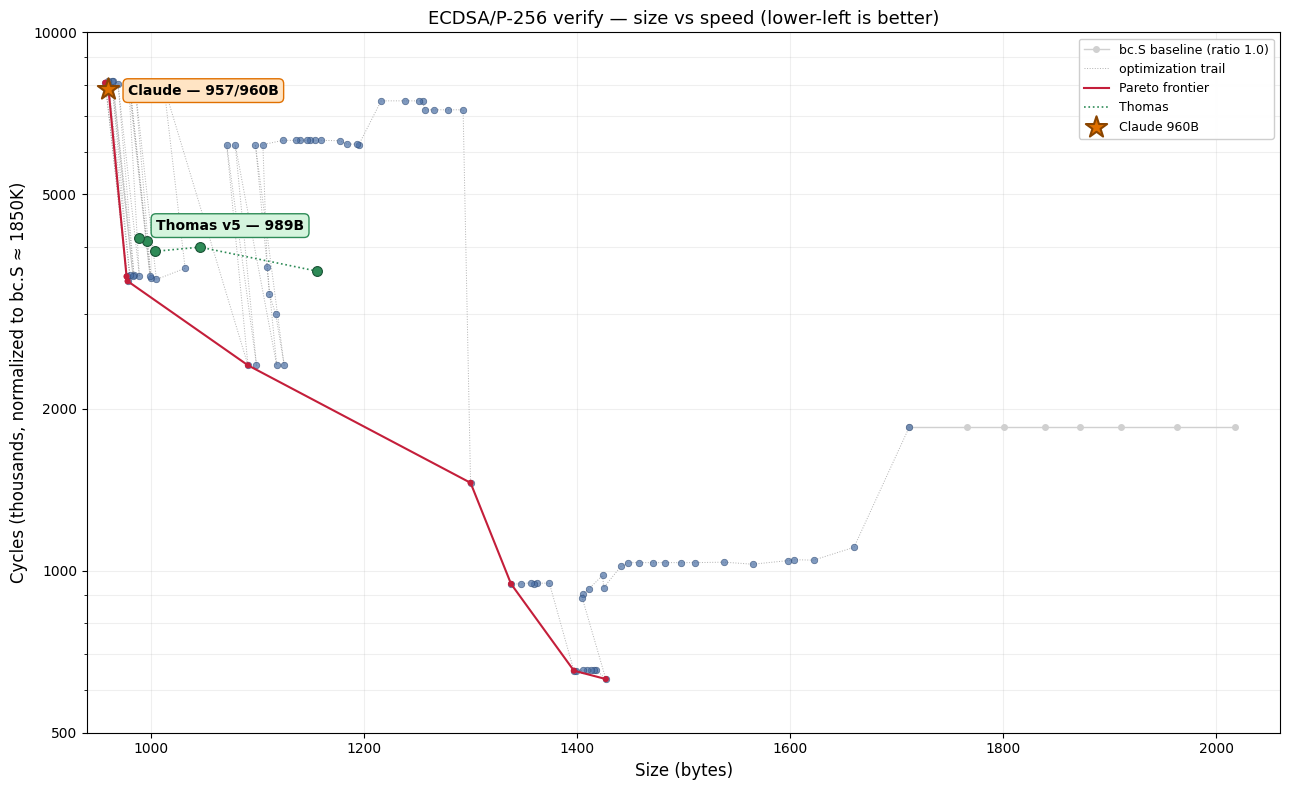
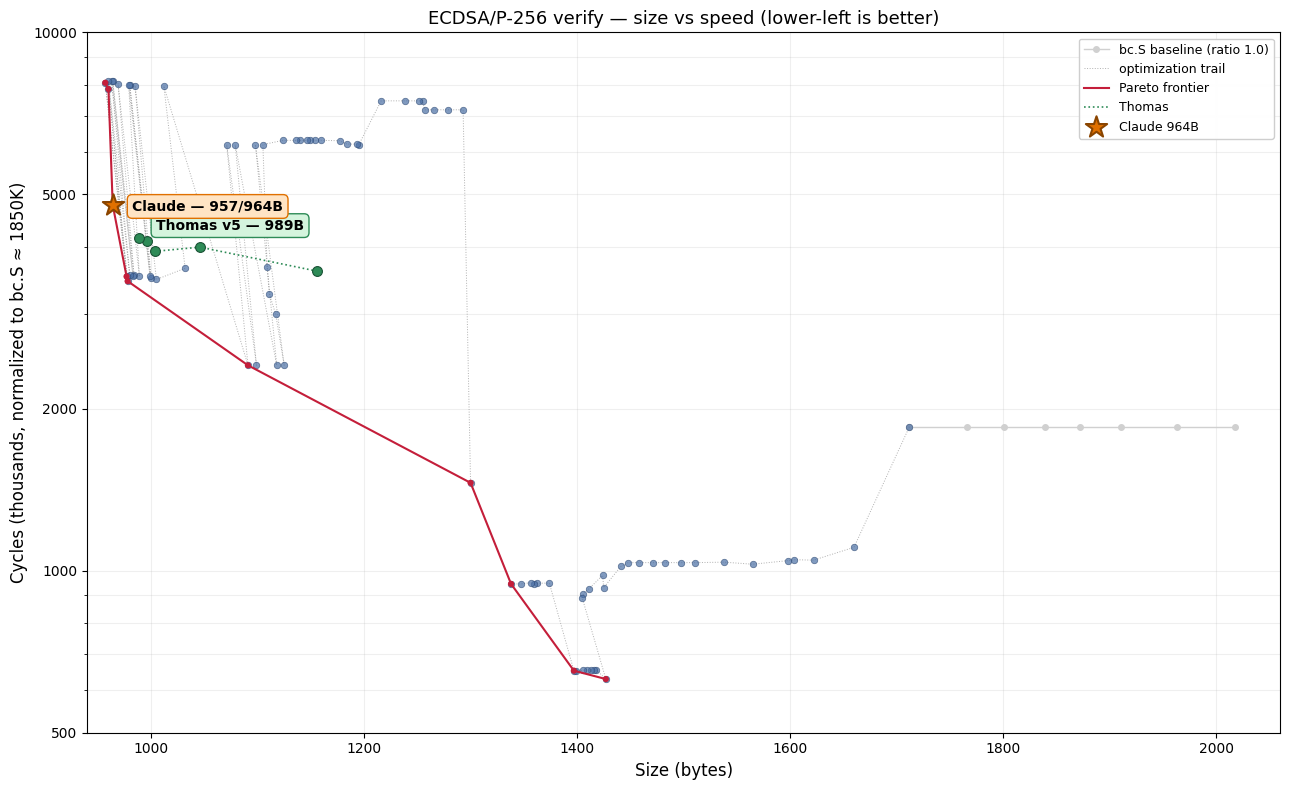
Chart + README: 964B/4.78M — fills the 960→977 frontier gap
The SMALL_MUL8 knob is now about scasd, not loop.  964B sits right
between 960B/7.8M and 977B/3.5M — a genuine middle point, not a
trail artifact.  Frontier: 957→960→964→977→978→1091→…

Changed region(s): [[0.0621, 0.0911, 0.2483, 0.3342]]

diff --git a/docs/plot_history.py b/docs/plot_history.py
@@ -80,7 +80,11 @@ TRAIL = [
     #   #ifdef; xor ecx does three jobs (zero for push, zero for
     #   mul8's mov cl,N, eax no longer needed).  960B dominates 969B.
     (978,  3450, None),
-    (960,  7845, "957/960B — size corner"),
+    (960,  7845, None),
+    # --- mul8: drop `loop`, keep `scasd` (+4B, −39% cycles) ---
+    #   `loop` was ~6.5M of SMALL_MUL8's 7.8M cycles on its own.
+    #   964B fills the 960→977 gap; scasd is the real size knob now.
+    (964,  4780, "957/964B — size corner"),
 ]
 
 # Thomas's track: v1, v2, v3 (1004B), v4 (996B), v5 (989B).
@@ -89,7 +93,7 @@ TRAIL = [
 THOMAS_TRACK = [(1156, 3600), (1046, 3990), (1004, 3920), (996, 4100),
                 (989, 4150)]
 THOMAS    = (989, 4150)     # latest — still dominated
-CLAUDE    = (960, 7845)     # current build — dominates old 969B checkpoint
+CLAUDE    = (964, 4780)     # scasd-only SMALL_MUL8 — 39% faster for +4B
 
 def pareto(pts):
     front = []
@@ -145,7 +149,7 @@ ax.annotate(f'Thomas v5 — {THOMAS[0]}B', THOMAS,
 ax.scatter([CLAUDE[0]], [CLAUDE[1]], c='#e07000', s=260, marker='*',
            edgecolors='#8a4500', linewidths=1.5, zorder=6,
            label=f'Claude {CLAUDE[0]}B')
-ax.annotate(f'Claude — 957/960B',
+ax.annotate(f'Claude — 957/964B',
             CLAUDE, textcoords="offset points", xytext=(14, -4),
             fontsize=10, fontweight='bold',
             bbox=dict(boxstyle='round,pad=0.35', fc='#ffe4c4',

diff --git a/README.md b/README.md
@@ -20,7 +20,7 @@ make size      test      wp          # portable C reference
 
 | Implementation | text+rodata | Cycles | Requires | Notes |
 |---|---:|---:|---|---|
-| **`tv_ecdsa_tiny.S`** `-DSMALL_MUL8` | **960 B** | ~7.8M | MOVBE | 32-bit schoolbook, size floor |
+| **`tv_ecdsa_tiny.S`** `-DSMALL_MUL8` | **964 B** | ~4.8M | MOVBE | 32-bit schoolbook, `scasd` advance |
 | **`tv_ecdsa_tiny.S`** (default) | **978 B** | **~3.45M** | MOVBE | 64-bit schoolbook |
 | `tv_ecdsa_fast.S` | 1397 B | ~0.65M | BMI2+MOVBE | Montgomery+mulx, predecessor |
 | `tv_ecdsa_bc.S` | 1712 B | ~1.85M | — | first bytecode version |
@@ -95,6 +95,7 @@ What changed from fast.S to drop ~290 bytes:
 | 969 | **fe_inv_m: no seed copy** — bytecode sets dst=1, bit 255 (−10) |
 | 957 | .Lfm = Nmul; layout reorders for rel8 jmps (−12) |
 | 960 | push-zero unrolled: +3 B kills 220K cyc of `loop` penalty |
+| 964 | **mul8: drop `loop`, keep `scasd`** — +4 B, −39% cycles |
 
 ## Earlier implementations
 
